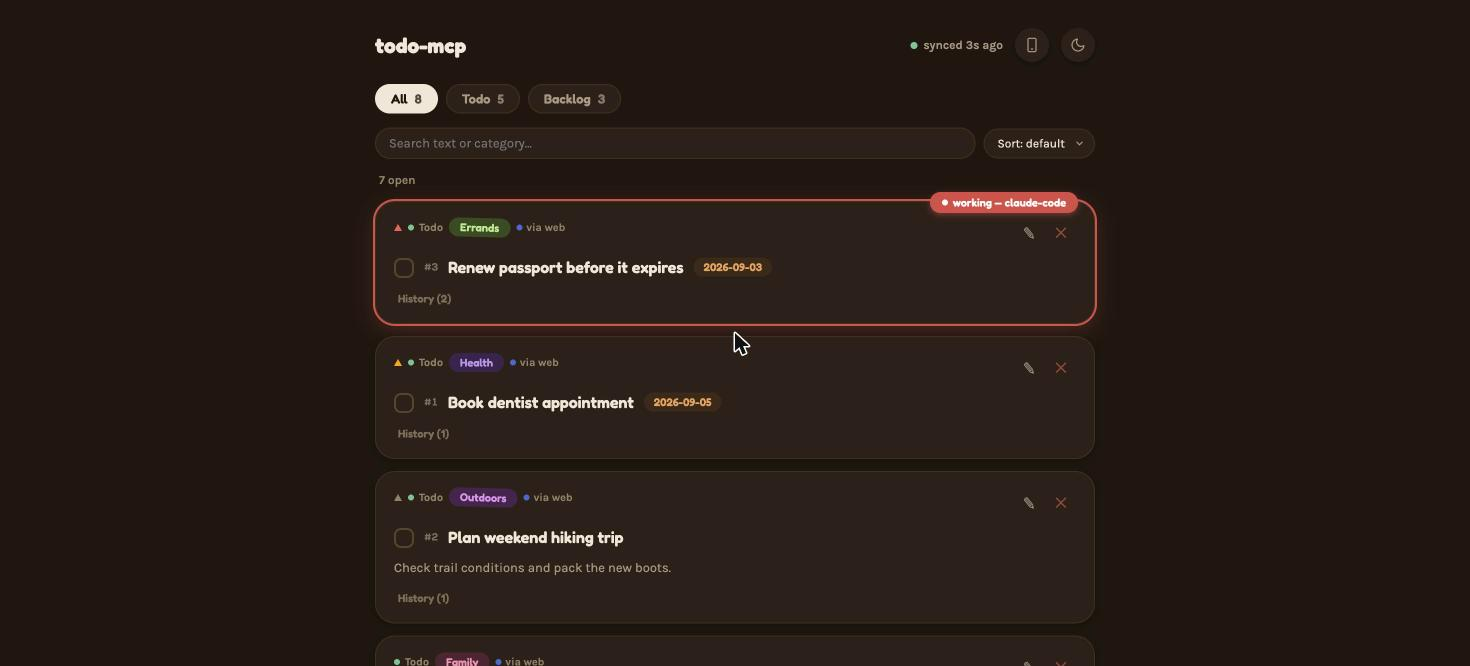
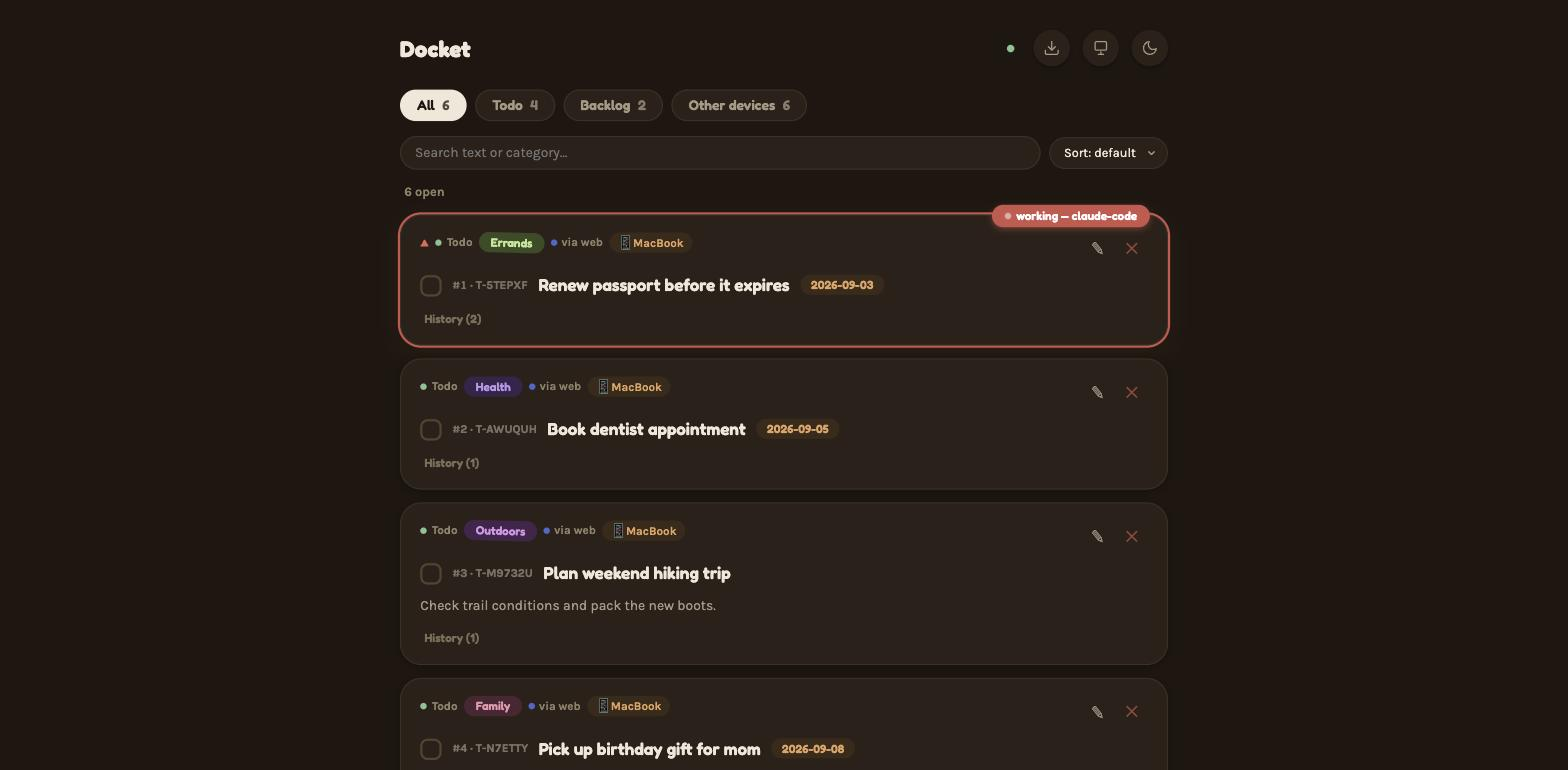
docs: update GitHub Pages site for self-hosted mode, refresh screenshots
- New positioning matching the README (one workspace, local or self-hosted)
- Both deployment-mode diagrams, and a #self-host section with real
  docket serve/pair/status CLI output (not a mockup)
- Screenshots were still branded "todo-mcp" from before the rename —
  retaken against a scratch instance with the same demo dataset, never
  touching real production data

diff --git a/docs/index.html b/docs/index.html
@@ -3,8 +3,8 @@
 <head>
 <meta charset="utf-8" />
 <meta name="viewport" content="width=device-width, initial-scale=1" />
-<title>Docket — one todo list, every AI tool</title>
-<meta name="description" content="A shared TODO/backlog MCP server for Claude Code, Claude Desktop, Warp and Codex — claim tracking, full history, a web dashboard, and encrypted local storage. One command to install." />
+<title>Docket — one workspace for every AI coding agent</title>
+<meta name="description" content="A shared workspace for Claude Code, Claude Desktop, Cursor, Windsurf, Warp and Codex — claim tracking, full history, a web dashboard, encrypted storage. Run it locally, or self-host it on your own always-on machine. No SaaS account required." />
 <link rel="icon" href="data:," />
 <link rel="stylesheet" href="https://fonts.googleapis.com/css2?family=Fredoka:wght@500;600;700&family=Karla:wght@400;500;600;700&display=swap">
 <style>
@@ -148,17 +148,18 @@
   <div class="links">
     <a href="#demo">Demo</a>
     <a href="#install">Install</a>
+    <a href="#self-host">Self-host</a>
     <a href="https://github.com/pasichDev/docket">GitHub</a>
     <a href="https://www.npmjs.com/package/@pasichdev/docket">npm</a>
   </div>
 </nav>
 
 <div class="hero wrap">
-  <h1>One todo list, every AI tool you use.</h1>
+  <h1>One workspace, every AI coding agent you use.</h1>
   <p class="tagline">
-    Claude Code, Claude Desktop, Warp, Codex — add an item in one, see it in
-    all of them, plus a web dashboard and your phone. Nothing gets lost
-    switching tools or starting a new session.
+    Claude Code, Claude Desktop, Cursor, Windsurf, Warp, Codex — add an item
+    in one, see it in all of them, plus a web dashboard and your phone. Run
+    it locally, or host it yourself. No SaaS account required, either way.
   </p>
   <div class="badges">
     <img src="https://img.shields.io/npm/v/%40pasichdev%2Fdocket.svg" alt="npm version" />
@@ -189,7 +190,7 @@
     <div class="demo-shot"><img src="assets/demo-light.jpg" alt="Docket web dashboard, light theme" loading="lazy" /></div>
   </div>
   <div class="demo-pane" data-pane="edit" data-active="false">
-    <div class="demo-shot"><img src="assets/demo-edit.png" alt="Docket inline edit form, showing title, description, category, priority and due date fields" loading="lazy" /></div>
+    <div class="demo-shot"><img src="assets/demo-edit.jpg" alt="Docket inline edit form, showing title, description, category, priority and due date fields" loading="lazy" /></div>
   </div>
 </section>
 
@@ -225,16 +226,25 @@
       <h3>Private by default</h3>
       <p>The data file is AES-256-GCM encrypted on disk — nobody browsing your filesystem sees your tasks in plain text.</p>
     </div>
+    <div class="feature-card">
+      <div class="icon" style="background:var(--sage-bg)">
+        <svg width="18" height="18" viewBox="0 0 24 24" fill="none" stroke="#3f7a50" stroke-width="2" stroke-linecap="round" stroke-linejoin="round"><rect x="3" y="4" width="18" height="6" rx="1.5"/><rect x="3" y="14" width="18" height="6" rx="1.5"/><path d="M7 7h.01M7 17h.01"/></svg>
+      </div>
+      <h3>Local or self-hosted</h3>
+      <p>Keep everything on this machine, or run one always-on Docket Server (Raspberry Pi, NAS, VPS) and pair every device to it. <a href="#self-host">See how ↓</a></p>
+    </div>
   </div>
 </section>
 
 <section class="wrap">
-  <h2 class="section-title">How it fits together</h2>
-  <p class="section-sub">Every client talks to the same server, which is the only thing that ever touches the data file — one source of truth, not four out-of-sync copies.</p>
+  <h2 class="section-title">Two ways to run it</h2>
+  <p class="section-sub">Local Mode is the default and needs nothing below. Self-hosted Mode is opt-in, for an always-on machine you control.</p>
+
+  <p style="text-align:center; font-family:'Fredoka',sans-serif; font-weight:600; margin-bottom:14px;">Local Mode — every client talks to one process on this machine</p>
   <div class="flow">
     <div class="flow-stack">
       <div class="flow-box"><div class="label">Claude Code</div></div>
-      <div class="flow-box"><div class="label">Claude Desktop</div></div>
+      <div class="flow-box"><div class="label">Cursor / Windsurf</div></div>
       <div class="flow-box"><div class="label">Warp / Codex</div></div>
     </div>
     <div class="flow-arrow">→</div>
@@ -247,6 +257,20 @@
       <div class="flow-box"><div class="label">Your phone</div><div class="sub">same Wi-Fi</div></div>
     </div>
   </div>
+
+  <p style="text-align:center; font-family:'Fredoka',sans-serif; font-weight:600; margin:44px 0 14px;">Self-hosted Mode — every device forwards to one authoritative server</p>
+  <div class="flow">
+    <div class="flow-stack">
+      <div class="flow-box"><div class="label">Laptop</div></div>
+      <div class="flow-box"><div class="label">Desktop</div></div>
+      <div class="flow-box"><div class="label">Phone (Web UI)</div></div>
+    </div>
+    <div class="flow-arrow">→</div>
+    <div class="flow-box center"><div class="label">Docket Server</div><div class="sub">docket serve</div></div>
+    <div class="flow-arrow">→</div>
+    <div class="flow-box store"><div class="label">Authoritative store</div><div class="sub">your Pi / NAS / VPS</div></div>
+  </div>
+  <p class="section-sub" style="margin-top:20px;">Every device is a thin, per-device-authenticated forwarder — there's no local writable copy, and the workspace stays up even when every laptop is off. <a href="#self-host">See how to set it up ↓</a></p>
 </section>
 
 <section id="install" class="wrap">
@@ -295,14 +319,83 @@
   </div>
 </section>
 
+<section id="self-host" class="wrap">
+  <h2 class="section-title">Want an always-on shared workspace?</h2>
+  <p class="section-sub">Run one Docket Server on a Raspberry Pi, mini PC, NAS, home server, or VPS — every device you pair with it shares the same authoritative workspace, even when your laptop is off. This is the actual CLI output, not a mockup.</p>
+  <div class="steps">
+    <div class="step">
+      <div class="num">1</div>
+      <div class="body">
+        <h3>Start the server</h3>
+        <p>On the always-on machine:</p>
+        <pre><code>$ npm install -g @pasichdev/docket
+$ docket serve --host 0.0.0.0
+docket server ready
+API:  http://0.0.0.0:8788/api/v1
+Data: ~/.docket (default)
+Auth: per-device signed requests — no client can call the API until it's paired.
+      Pair a new device from THIS machine with: docket devices pair</code></pre>
+      </div>
+    </div>
+    <div class="step">
+      <div class="num">2</div>
+      <div class="body">
+        <h3>Pair a device</h3>
+        <p>From the client machine — this waits for explicit approval on the server, never silent:</p>
+        <pre><code>$ docket pair https://docket.home.example
+✓ Server reachable
+✓ docket server v2.3.0
+✓ Protocol compatible
+
+Confirmation code: 7XP-KR4
+Check that the SAME code appears next to this request on the server (docket devices pending) before approving it there.
+
+Waiting for approval...
+✓ Device paired
+✓ Connection authenticated
+✓ Remote workspace ready</code></pre>
+      </div>
+    </div>
+    <div class="step">
+      <div class="num">3</div>
+      <div class="body">
+        <h3>Check on it, any time</h3>
+        <pre><code>$ docket status
+Mode: remote
+Server: https://docket.home.example
+Status: connected
+Latency: 18 ms
+Server version: 2.3.0
+Device: andrii-desktop
+Device authorization: active</code></pre>
+      </div>
+    </div>
+    <div class="step">
+      <div class="num">4</div>
+      <div class="body">
+        <h3>Use Claude/Codex/Cursor exactly like Local Mode</h3>
+        <p>Same MCP config, same tools — only where the data lives changed:</p>
+        <pre><code>claude mcp add docket -- npx -y @pasichdev/docket</code></pre>
+      </div>
+    </div>
+  </div>
+  <div class="cta-row" style="margin-top:32px;">
+    <a class="btn primary" href="https://github.com/pasichDev/docket#deployment-modes">Read the full self-hosted guide</a>
+    <a class="btn secondary" href="https://github.com/pasichDev/docket/blob/main/docs/headless.md">Docker / systemd deployment</a>
+  </div>
+</section>
+
 <footer>
   <div class="links">
     <a href="https://github.com/pasichDev/docket">GitHub</a>
     <a href="https://www.npmjs.com/package/@pasichdev/docket">npm</a>
     <a href="https://registry.modelcontextprotocol.io">MCP Registry</a>
+    <a href="https://github.com/pasichDev/docket/blob/main/docs/headless.md">Self-hosting docs</a>
+    <a href="https://github.com/pasichDev/docket/blob/main/CONTRIBUTING.md">Contributing</a>
+    <a href="https://github.com/pasichDev/docket/blob/main/SECURITY.md">Security</a>
     <a href="https://github.com/pasichDev/docket/blob/main/LICENSE">MIT License</a>
   </div>
-  <div class="fine">Docket — a personal project, open source, no account required.</div>
+  <div class="fine">Docket — a personal project, open source, no account required, local or self-hosted.</div>
 </footer>
 
 <script>
